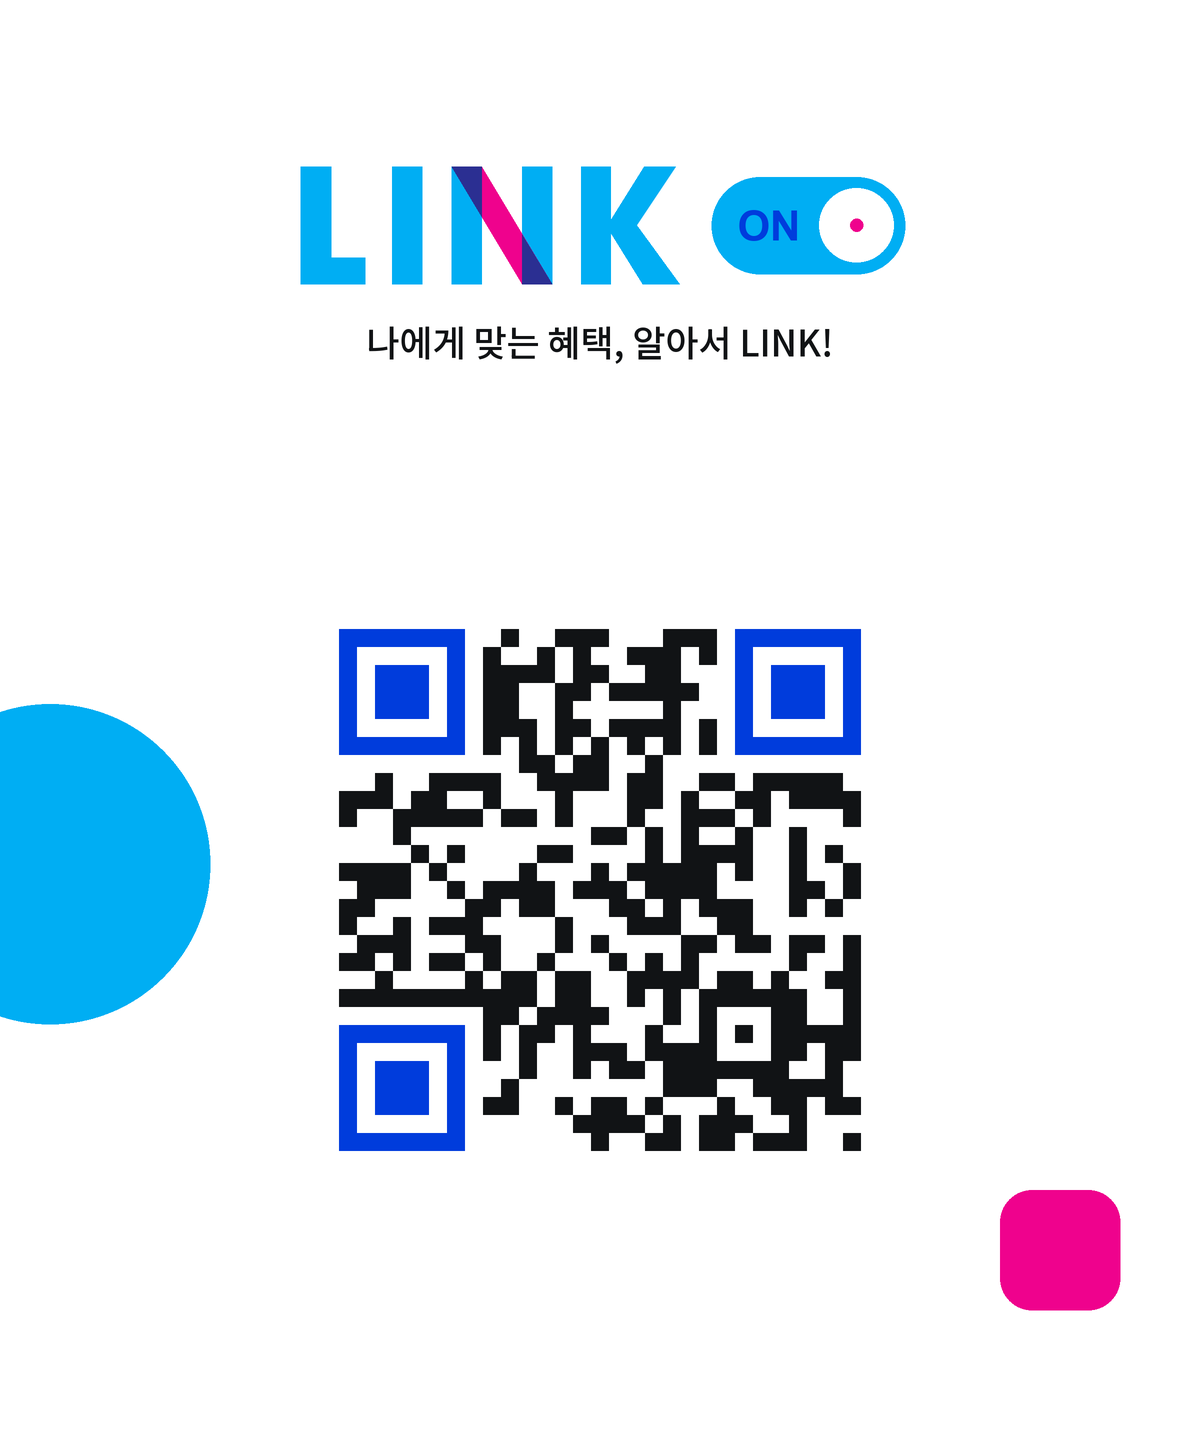
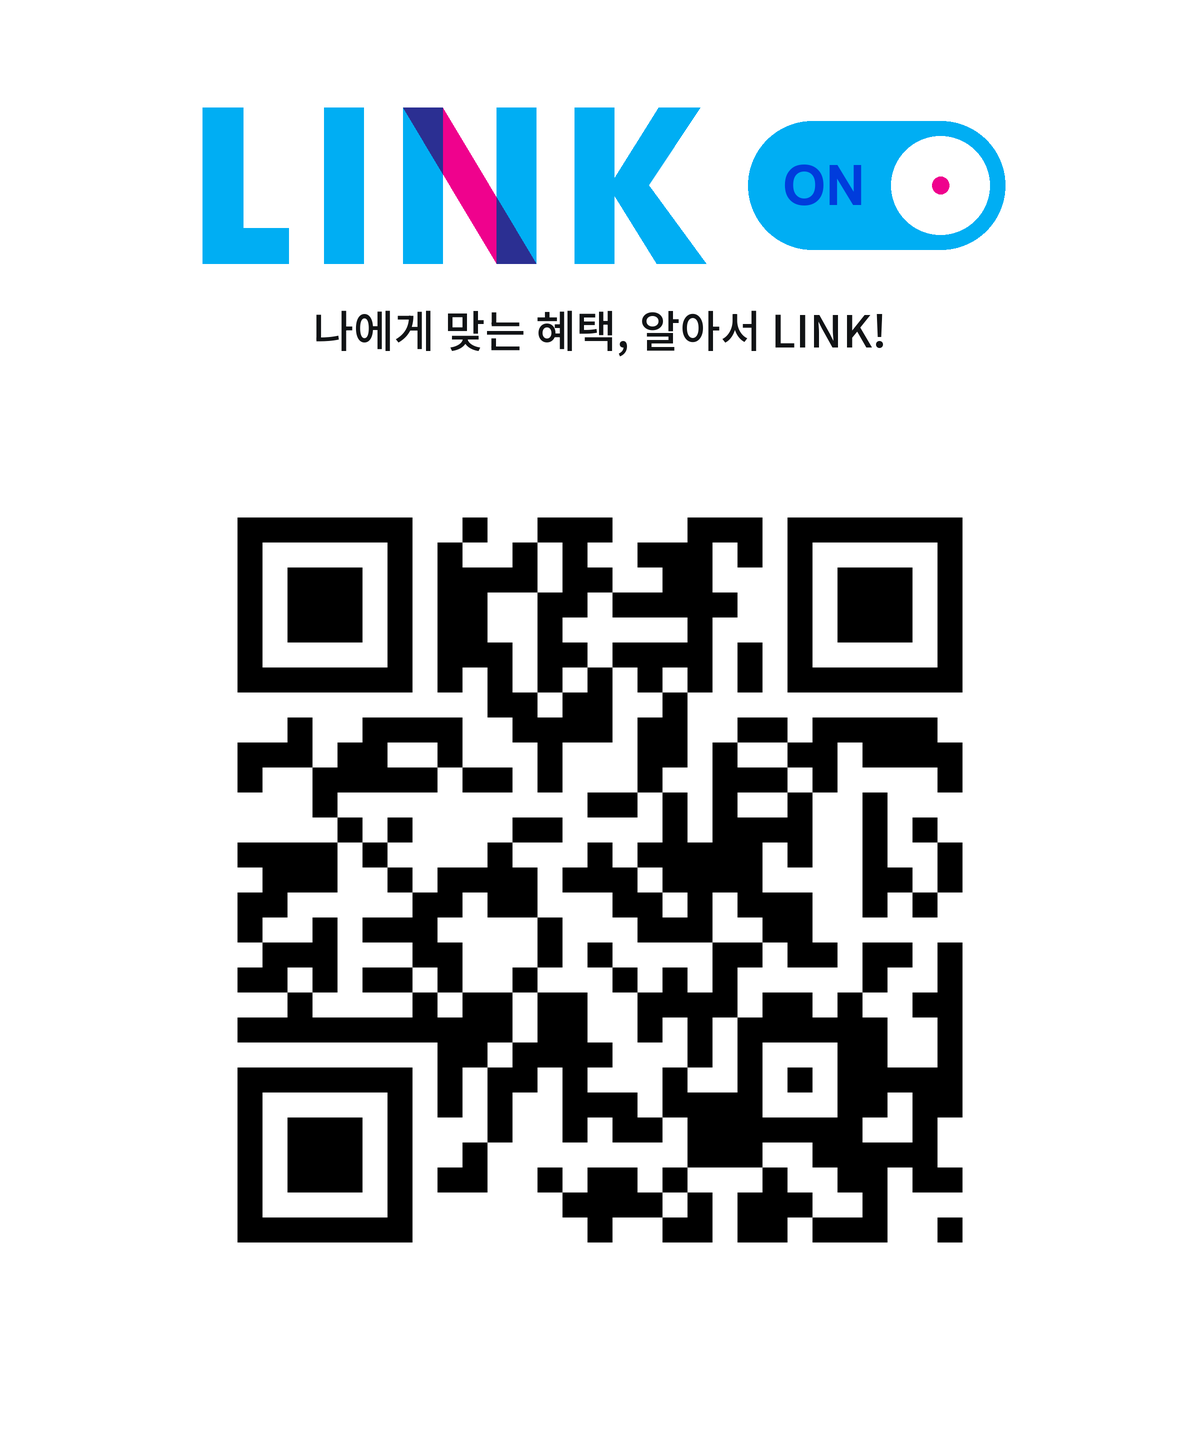
Simplify and enlarge QR; move brand introduction above phone

Changed region(s): [[0.0, 0.3438, 0.8017, 0.875], [0.1542, 0.0625, 0.8633, 0.25], [0.8325, 0.8125, 0.9558, 0.9375]]

diff --git a/src/styles.css b/src/styles.css
@@ -1,7 +1,7 @@
 @font-face{font-family:'Noto Sans KR';src:url('/fonts/NotoSansKR-VF.ttf') format('truetype');font-style:normal;font-weight:100 900;font-display:swap}
 :root{font-family:'Noto Sans KR',sans-serif;color:#111315;background:#f4f6fa;font-synthesis:none;text-rendering:optimizeLegibility;-webkit-font-smoothing:antialiased;--blue:#1677ff;--tint:#f0f6ff;--ink:#111315;--muted:#5f6672;--subtle:#f6f7f8;--line:#edeef1;--cyan:#00aef3;--brand-blue:#003cdc;--shadow:0 2px 6px #0000000a,0 8px 24px #0000000f;--note-shadow:0 2px 6px #00000005,0 8px 24px #0000000a}
 *{box-sizing:border-box}body{margin:0}button,input{font:inherit}button{border:0;cursor:pointer;background:none;color:inherit;padding:0;-webkit-tap-highlight-color:transparent}button:disabled{cursor:not-allowed}button:focus-visible,input:focus-visible{outline:3px solid #003cdc;outline-offset:4px}button:active:not(:disabled){filter:brightness(.96)}p,h1,h2,h3,dl,dd{margin:0}img{display:block}h1{font-size:18px;font-weight:700;line-height:27px}h2{font-size:26px;font-weight:700;line-height:36px;letter-spacing:-.5px;word-break:keep-all}h3{font-size:20px;font-weight:700;line-height:30px;letter-spacing:-.35px}p{font-size:16px;line-height:26px;word-break:keep-all;overflow-wrap:break-word}.muted{color:var(--muted)}.small{font-size:14px;line-height:22px}.left{text-align:left}.preview{min-height:100svh;display:flex;flex-direction:column;align-items:center;justify-content:center;gap:14px;padding:20px 0}.preview-stage{width:440px;max-width:100%}.phone{width:100%;height:956px;border:1px solid #d7dfec;border-radius:52px;background:#fff;position:relative;overflow:hidden;box-shadow:0 20px 70px #213b5c0b}.screen-body{height:100%;display:flex;flex-direction:column}.status-bar{height:61px;flex-shrink:0;position:relative;font-family:Arial,sans-serif;color:#000}.status-time{position:absolute;left:16%;top:21px;font-size:20px;font-weight:600;line-height:22px}.island{position:absolute;top:13px;left:50%;transform:translateX(-50%);width:95px;height:36.667px;border-radius:24px;background:#000}.status-levels{position:absolute;right:10.3%;top:23.333px;display:flex;align-items:center;gap:8.667px;height:16.333px}.status-levels img{max-width:none;height:auto}.cellular{width:20.333px;height:16.333px;display:flex;gap:2.333px;align-items:flex-end;padding-top:1.333px}.cellular i{display:block;width:3.333px;background:#000;border-radius:1px}.cellular i:nth-child(1){height:7px}.cellular i:nth-child(2){height:9.667px}.cellular i:nth-child(3){height:12.333px}.cellular i:nth-child(4){height:15px}.navigation{display:grid;grid-template-columns:44px minmax(0,1fr) 44px;gap:12px;align-items:center;margin:6px 23px 26px;min-height:44px;flex-shrink:0;text-align:center}.nav-icon{width:44px;height:44px;display:grid;place-items:center}.nav-placeholder{width:44px}.asset-icon{display:inline-flex;align-items:center;justify-content:center;flex-shrink:0}.asset-icon img{max-width:100%;max-height:100%;object-fit:contain}.content{display:flex;flex-direction:column;gap:18px;flex:1;min-height:0;padding:0 23px 20px;overflow-y:auto;overflow-x:hidden;scrollbar-width:thin;scrollbar-color:#a8afb9 transparent}.content::-webkit-scrollbar{width:6px}.content::-webkit-scrollbar-track{background:transparent}.content::-webkit-scrollbar-thumb{background:#a8afb9;border-radius:6px}.content::-webkit-scrollbar-thumb:hover{background:#858e9b}.content>*{flex-shrink:0}.content.start{gap:16px}.content.main-on{gap:12px}.content.detail{gap:16px}.footer{padding:6px 23px 17px;display:flex;flex-direction:column;gap:12px;background:#fff;flex-shrink:0}.home-indicator{height:33px;flex-shrink:0;position:relative}.home-indicator>span{position:absolute;width:144px;height:5px;border-radius:3px;background:#000;left:50%;bottom:7px;transform:translateX(-50%)}.button{height:56px;min-height:56px;width:100%;border-radius:28px;display:flex;align-items:center;justify-content:center;font-size:16px;line-height:24px;font-weight:700;text-align:center;padding:0 16px}.button.primary{background:var(--blue);color:#fff;font-size:19px}.button.secondary{background:var(--tint);color:var(--brand-blue)}.button:disabled{background:var(--line);color:var(--muted)}.link-header{display:flex;align-items:center;justify-content:space-between;padding:2px 0 6px;min-height:46px}.help-button{height:38px;width:100px;border-radius:22px;background:var(--tint);color:var(--brand-blue);font-size:14px;font-weight:700}.summary{display:grid;grid-template-columns:1fr 1fr;padding:8px;background:var(--subtle);border-radius:24px}.summary>div{background:#fff;display:flex;flex-direction:column;align-items:center;gap:4px;padding:12px 8px;border-radius:18px}.summary span{font-size:14px;line-height:22px;color:var(--muted)}.summary strong{font-size:24px;line-height:32px}.card{padding:20px;border-radius:24px;background:#fff;box-shadow:var(--shadow)}.intro{padding:20px 24px;display:flex;flex-direction:column;gap:12px}.intro h2{font-size:24px;line-height:34px}.intro-description{font-size:15px;line-height:24px}.link-on-logo{position:relative;flex-shrink:0}.link-on-logo>*{position:absolute;display:block}.logo-track{background:var(--cyan);border-radius:100px}.logo-on{color:var(--brand-blue);font-weight:700;text-align:left;white-space:nowrap}.note{padding:16px;border-radius:16px;box-shadow:none;background:var(--subtle);font-size:14px;line-height:22px;color:var(--muted);word-break:keep-all;overflow-wrap:break-word}.active-banner{display:flex;align-items:center;justify-content:space-between;gap:12px;padding:12px 16px;border-radius:18px;background:#eef4ff}.active-banner>div{min-width:0;display:flex;flex-direction:column;gap:4px}.toggle-hit{width:54px;min-width:54px;height:44px;display:grid;place-items:center}.toggle-off{width:54px;height:32px;background:#9196a2;border-radius:16px;padding:3px;display:block}.toggle-off>span{width:26px;height:26px;border-radius:50%;background:#fff;display:block}.section-heading{display:flex;align-items:center;justify-content:space-between;gap:8px;height:30px}.text-action{color:var(--brand-blue);font-size:16px;font-weight:700;line-height:26px;padding:0 10px;min-height:26px}.text-action.left{padding:0}.benefit{width:100%;min-height:102px;display:grid;grid-template-columns:44px minmax(0,1fr) 96px;column-gap:12px;text-align:left;align-items:center;padding:10px 0}.merchant{width:44px;height:44px;object-fit:contain;border-radius:11px}.merchant.starbucks{border-radius:50%}.merchant.large{width:64px;height:64px;border-radius:16px}.merchant.large.starbucks{border-radius:50%}.benefit-info{display:grid;grid-template-columns:1fr;gap:4px;min-width:0}.merchant-name{font-size:15px;color:var(--muted);line-height:22px}.benefit-info strong{font-size:21px;line-height:30px;font-weight:700;white-space:nowrap;letter-spacing:-.4px}.condition{font-size:14px;line-height:22px;color:var(--muted);white-space:normal}.benefit-action{width:96px;height:40px;border-radius:22px;display:flex;align-items:center;color:var(--brand-blue);font-size:14px;line-height:22px;font-weight:700}.benefit-action.link{border:1px solid var(--blue);padding-left:19px;padding-right:7px;background:#fff}.benefit-action.link>span:last-child{flex:1;text-align:center}.benefit-action.complete{justify-content:center;gap:8px;color:var(--muted);background:#fff}.benefit-action.detail{justify-content:flex-end;gap:2px;padding-right:6px}.benefit-action.exclude{justify-content:center;background:var(--subtle)}.detail-merchant{display:flex;align-items:center;gap:16px}.detail-merchant>div{display:flex;flex-direction:column;gap:4px;min-width:0}.detail-merchant p{line-height:24px}.detail-merchant h2{font-size:28px;line-height:38px;letter-spacing:-.5px}.pill{align-self:flex-start;display:inline-flex;align-items:center;justify-content:center;min-width:116px;padding:5px 10px;border-radius:20px;background:var(--tint);color:var(--brand-blue);font-size:14px;line-height:22px}.reason{display:flex;flex-direction:column;gap:10px}.reason>strong{display:flex;align-items:center;gap:10px;font-size:16px;line-height:26px}.details{display:flex;flex-direction:column;gap:16px;padding:12px 0;font-size:16px;line-height:24px}.details>div{display:grid;grid-template-columns:106px minmax(0,1fr);gap:16px}.details dt{color:var(--muted)}.details dd{font-weight:500;word-break:keep-all;overflow-wrap:break-word;letter-spacing:-.25px}.status-circle{width:72px;height:72px;display:grid;place-items:center;background:var(--tint);border-radius:50%;align-self:flex-start}.service-info{display:flex;flex-direction:column;gap:20px}.service-row{display:flex;align-items:center;gap:12px}.service-row>div{min-width:0;display:flex;flex-direction:column;gap:4px}.service-row strong{font-size:16px;line-height:26px;letter-spacing:-.3px;word-break:keep-all}.consent{display:flex;align-items:center;gap:12px;padding:8px 0;cursor:pointer;font-size:16px;line-height:26px;font-weight:700}.consent input{appearance:none;margin:0;width:32px;height:32px;flex-shrink:0;border:1px solid #aab4c4;border-radius:8px;display:grid;place-content:center;cursor:pointer}.consent input:checked{background:var(--blue);border-color:var(--brand-blue)}.consent input:checked:after{content:'';display:block;width:12px;height:7px;border-left:2px solid white;border-bottom:2px solid white;transform:translateY(-1px) rotate(-45deg)}.industry-grid{display:grid;grid-template-columns:1fr 1fr;gap:18px 12px}.industry{height:56px;border-radius:28px;background:var(--subtle);border:1px solid var(--muted);font-size:16px;line-height:24px}.industry.selected{background:var(--ink);color:white;border-color:var(--ink);font-weight:700}.manage-toggle{display:flex;align-items:center;justify-content:space-between;padding:10px 0}.interest-summary{display:flex;align-items:center;justify-content:space-between;gap:20px;padding:18px 0}.interest-summary>div{min-width:0;flex:1}.interest-summary strong{font-size:18px;line-height:28px;word-break:keep-all;display:block;margin-top:4px}.interest-summary button{font-weight:400;flex-shrink:0;padding-right:10px;font-size:14px;line-height:24px}.quick-actions{display:flex;gap:12px}.quick-actions .button{height:44px;min-height:44px}.result-tabs{display:flex;gap:8px}.result-tabs button{flex:1;min-width:0;height:44px;border-radius:22px;background:var(--subtle);font-size:15px;color:var(--muted)}.result-tabs button.selected{background:var(--ink);font-weight:700;color:#fff}.result-card{padding:24px;display:flex;flex-direction:column;gap:12px}.result-icons{display:flex;align-items:center;gap:12px}.modal-layer{position:absolute;inset:0;z-index:10;display:flex;flex-direction:column;justify-content:flex-end}.scrim{position:absolute;inset:0;background:rgba(37,42,52,.36)}.sheet{position:relative;background:#fff;border-radius:28px 28px 0 0;display:flex;flex-direction:column;gap:20px;padding:32px 23px 49px;min-height:342px}.sheet-handle{position:absolute;top:10px;left:50%;transform:translateX(-50%);width:40px;height:5px;background:#e5e9f0;border-radius:3px}.modal-layer>.home-indicator{background:#fff;position:relative}.preview-tools{display:flex;align-items:center;gap:20px;color:var(--muted);font-size:12px;line-height:20px}.preview-tools button{text-decoration:underline;text-underline-offset:3px;font-size:12px}.preview-tools button:focus-visible{outline-offset:2px}
-@media(max-width:560px){:root{background:#fff;scrollbar-width:none}body::-webkit-scrollbar{display:none}.preview{padding:0;gap:0;justify-content:flex-start}.preview-stage{width:440px}.phone{height:min(956px,100dvh);min-height:560px;box-shadow:none}.preview-tools{padding:14px 8px;flex-wrap:wrap;justify-content:center}.content{overscroll-behavior:contain}}
+@media(max-width:560px){:root{background:#fff;scrollbar-width:none}body::-webkit-scrollbar{display:none}.preview{padding:0;gap:0;justify-content:flex-start}.preview-stage{width:440px}.phone{height:min(956px,calc(100dvh - 134px));min-height:560px;box-shadow:none}.preview-tools{padding:14px 8px;flex-wrap:wrap;justify-content:center}.content{overscroll-behavior:contain}}
 @media(max-width:400px){h2{font-size:24px;line-height:34px}.navigation{margin-left:19px;margin-right:19px}.content{padding-left:19px;padding-right:19px}.footer{padding-left:19px;padding-right:19px}.benefit{grid-template-columns:40px minmax(0,1fr) 82px;column-gap:9px;min-height:110px}.merchant{width:40px;height:40px}.benefit-action{width:82px}.benefit-action.link{padding-left:14px;padding-right:4px}.benefit-info strong{font-size:20px}.condition{white-space:normal;grid-column:auto;font-size:14px;line-height:22px}.details>div{grid-template-columns:88px minmax(0,1fr);gap:12px}.active-banner{padding-left:12px;padding-right:12px}.service-info{padding:18px}.service-row{gap:10px}.service-row strong{font-size:15px}.intro{padding:20px}.sheet{padding-left:19px;padding-right:19px}.status-levels{right:8%}.status-time{left:13%}}
 @media(prefers-reduced-motion:no-preference){.button,.benefit-action,.industry{transition:background-color .15s,color .15s}.sheet{animation:slide-up .18s ease-out}@keyframes slide-up{from{transform:translateY(20px);opacity:.5}to{transform:translateY(0);opacity:1}}}
 .active-banner{justify-content:flex-start}.active-banner>div{width:278px;flex:0 1 278px}
@@ -66,8 +66,8 @@
 .content.main-on .link-header{padding-bottom:0}.content.main-on .link-header>img{width:96px;height:auto}
 .content.experience{gap:16px}.content.experience>h2{font-size:25px;line-height:35px}.content.experience>p{font-size:15px;line-height:24px}
 
-/* A quiet brand signature separates the service from optional presentation tools. */
-.brand-signature{display:flex;flex-direction:column;align-items:center;gap:16px;margin:28px 20px 2px;text-align:center}
+/* Brand introduction sits above the phone preview. */
+.brand-signature{display:flex;flex-direction:column;align-items:center;gap:16px;margin:8px 20px 12px;text-align:center}
 .brand-signature p{font-size:17px;line-height:26px;font-weight:500;letter-spacing:-.3px;color:var(--ink)}
 .preview-tools{gap:8px 24px;padding:0 20px}
 .preview-tools button{min-height:44px;font-size:13px;color:var(--muted);text-decoration:none}
@@ -101,4 +101,4 @@
 .settings-panel .settings-check{flex-direction:row;align-items:center;gap:10px;min-height:44px;font-weight:400}
 .settings-check input{width:20px;height:20px;min-height:20px;flex-shrink:0;accent-color:var(--brand-blue)}
 .settings-feedback{padding:12px 14px;margin-top:20px;background:var(--tint);border-radius:12px;font-size:14px;line-height:23px;color:var(--brand-blue)}
-@media(max-width:560px){.brand-signature{margin-top:40px;margin-bottom:12px}.brand-signature p{font-size:16px}.demo-tools[open]>summary{padding:18px}.settings-content{padding:0 18px 20px}.settings-fields{grid-template-columns:1fr}.settings-tabs button{font-size:13px}.demo-tools{margin-top:0;margin-bottom:28px}.preview-tools{padding-top:0}}
+@media(max-width:560px){.brand-signature{margin-top:24px;margin-bottom:24px}.brand-signature p{font-size:16px}.demo-tools[open]>summary{padding:18px}.settings-content{padding:0 18px 20px}.settings-fields{grid-template-columns:1fr}.settings-tabs button{font-size:13px}.demo-tools{margin-top:0;margin-bottom:28px}.preview-tools{padding-top:0}}

diff --git a/src/main.tsx b/src/main.tsx
@@ -224,14 +224,14 @@ function App() {
     footer = <Button onClick={home}>LINK 메인으로</Button>;
   }
   const modalName = modalOffer ? merchants[modalOffer.merchant].name : '';
-  return <div className="preview"><div className="preview-stage" style={{ zoom: originalSize ? 1 : previewScale } as CSSProperties}><div className="phone" data-screen={path}>
+  return <div className="preview"><section className="brand-signature" aria-label="LINK ON 소개"><LinkLogo size={190} /><p>나에게 맞는 혜택, 알아서 LINK!</p></section><div className="preview-stage" style={{ zoom: originalSize ? 1 : previewScale } as CSSProperties}><div className="phone" data-screen={path}>
     <div className="screen-body" inert={!!modal}><StatusBarIPhone /><nav className="navigation" aria-label="화면 이동">{!isMain ? <button className="nav-icon" onClick={back} aria-label="뒤로"><Icon name="back.svg" /></button> : <span className="nav-placeholder" />}<h1 tabIndex={-1}>{title}</h1>{!isMain ? <button className="nav-icon" onClick={home} aria-label="LINK 메인"><Icon name="close.svg" size={20} /></button> : <span className="nav-placeholder" />}</nav><main className={`content ${contentClass}`} ref={scrollRef}>{state.notice && <div className="inline-notice" role="status">{state.notice}</div>}{content}</main>{footer && <footer className="footer">{footer}</footer>}<HomeIndicator /></div>
     {modal && <ConfirmSheet returnFocus={modalOrigin.current} title={modal === 'unlink' ? '직접 LINK를 해제할까요?' : modal === 'off' ? 'LINK ON을 끌까요?' : '이 혜택을 제외할까요?'} confirm={modal === 'unlink' ? 'LINK 해제' : modal === 'off' ? '자동 연결 끄기' : `${modalName} 혜택 제외`} cancel={modal === 'unlink' ? '연결 유지하기' : modal === 'off' ? '자동 연결 유지하기' : '혜택 유지하기'} onClose={historyBack} onConfirm={() => {
       if (modal === 'unlink' && modalOffer) { dispatch({ type: 'UNLINK_MANUAL', id: modalOffer.id }); historyBack(); }
       else if (modal === 'off') { dispatch({ type: 'DISABLE' }); home(); }
       else if (modalOffer) { dispatch({ type: 'EXCLUDE', id: modalOffer.id }); go(`/excluded/${modalOffer.id}`, true); }
     }}>{modal === 'unlink' ? <>{modalName} 혜택의 연결이 해제돼요.<br />다른 혜택과 LINK ON 설정은 유지돼요.</> : modal === 'off' ? <>새 혜택의 자동 연결이 중단돼요.<br />이미 연결된 혜택은 만료일까지 유지됩니다.</> : <>{modalName} 혜택의 연결이 취소돼요.<br />이번 행사 혜택은 다시 자동 연결하지 않아요.</>}</ConfirmSheet>}
-  </div></div><section className="brand-signature" aria-label="LINK ON 소개"><LinkLogo size={190} /><p>나에게 맞는 혜택, 알아서 LINK!</p></section><div className="preview-tools" inert={!!modal}><button className="preview-size" aria-pressed={originalSize} onClick={() => setOriginalSize(value => !value)}>{originalSize ? '화면에 맞추기' : '원본 크기로 보기'}</button><button onClick={() => { dispatch({ type: 'RESET' }); setDemoReset(value => value + 1); setConsent(false); setDraft(initialState.interests); setIndustryFilter('전체'); home(); requestAnimationFrame(() => { scrollRef.current?.scrollTo(0, 0); window.scrollTo(0, 0); }); }}>다시 체험하기</button></div><DemoTools key={demoReset} blocked={!!modal} state={state} dispatch={dispatch} navigate={route => go(route)} /></div>;
+  </div></div><div className="preview-tools" inert={!!modal}><button className="preview-size" aria-pressed={originalSize} onClick={() => setOriginalSize(value => !value)}>{originalSize ? '화면에 맞추기' : '원본 크기로 보기'}</button><button onClick={() => { dispatch({ type: 'RESET' }); setDemoReset(value => value + 1); setConsent(false); setDraft(initialState.interests); setIndustryFilter('전체'); home(); requestAnimationFrame(() => { scrollRef.current?.scrollTo(0, 0); window.scrollTo(0, 0); }); }}>다시 체험하기</button></div><DemoTools key={demoReset} blocked={!!modal} state={state} dispatch={dispatch} navigate={route => go(route)} /></div>;
 }
 
 initializeNavigation();

diff --git a/scripts/create-qr.py b/scripts/create-qr.py
@@ -7,11 +7,11 @@ from PIL import Image, ImageDraw, ImageFont
 
 ROOT=Path(__file__).resolve().parents[1]
 S=2; W,H=1200,1440
-# Flat white canvas; only the existing brand accents appear in decoration.
+# Solid white background without decorative shapes.
 img=Image.new('RGB',(W*S,H*S),'white')
 d=ImageDraw.Draw(img)
 # Original LINK paths and ON toggle geometry, with no reshaping.
-ox,oy,scale=295,155,610/128
+ox,oy,scale=195,92,810/128
 root=ET.parse(ROOT/'public/assets/logo-128-link.svg').getroot()
 for path in root.findall('.//{http://www.w3.org/2000/svg}path'):
     tokens=re.findall(r'[MHVLZ]|-?\d+(?:\.\d+)?',path.attrib['d']); points=[]; i=0; x=y=0; command=''
@@ -31,22 +31,16 @@ on_font=Path('C:/Windows/Fonts/arialbd.ttf')
 if not on_font.exists(): on_font=ROOT/'public/fonts/NotoSansKR-VF.ttf'
 font=ImageFont.truetype(str(on_font),round(8.8*scale*S))
 d.text(((ox+99.42*scale)*S,(oy+14.77*scale)*S),'ON',font=font,fill='#003cdc',anchor='mm')
-font=ImageFont.truetype(str(ROOT/'public/fonts/NotoSansKR-VF.ttf'),36*S)
+font=ImageFont.truetype(str(ROOT/'public/fonts/NotoSansKR-VF.ttf'),44*S)
 font.set_variation_by_axes([500])
-d.text((600*S,342*S),'나에게 맞는 혜택, 알아서 LINK!',font=font,fill='#111315',anchor='mm')
-# Two solid shapes frame the white scan area without outlining it.
-# Both sit outside the full four-module quiet zone.
-d.ellipse((-110*S,704*S,210*S,1024*S),fill='#00aef3')
-d.rounded_rectangle((1000*S,1190*S,1120*S,1310*S),radius=32*S,fill='#ef028d')
+d.text((600*S,330*S),'나에게 맞는 혜택, 알아서 LINK!',font=font,fill='#111315',anchor='mm')
 qr=qrcode.QRCode(error_correction=qrcode.constants.ERROR_CORRECT_H,border=4)
 qr.add_data('https://link-on.kro.kr/');qr.make(fit=True)
-m=qr.get_matrix();n=len(m);unit=18;startx=(W-n*unit)/2;starty=890-n*unit/2
+m=qr.get_matrix();n=len(m);unit=25;startx=(W-n*unit)/2;starty=880-n*unit/2
 for row,line in enumerate(m):
  for col,on in enumerate(line):
   if not on:continue
-  a,b=col-4,row-4;side=n-8
-  finder=(a<7 and b<7) or (a>=side-7 and b<7) or (a<7 and b>=side-7)
-  color='#003cdc' if finder else '#111315'
+  color='#000000'
   x,y=(startx+col*unit)*S,(starty+row*unit)*S
   d.rectangle((x,y,x+unit*S-1,y+unit*S-1),fill=color)
 img=img.convert('RGB').resize((W,H),Image.Resampling.LANCZOS)

diff --git a/CHANGELOG.md b/CHANGELOG.md
@@ -1,5 +1,11 @@
 # 변경 기록
 
+## QR 확대·웹 소개 위치 조정 — 2026-10-30
+
+- QR 배경 장식을 모두 없애고 흰색 단색으로 정리했습니다. QR 패턴은 검정색으로 통일했습니다.
+- QR과 로고·소개 문구를 확대하고 사이 간격을 줄였습니다.
+- 웹의 로고와 한 줄 소개를 폰 화면 위로 옮겼습니다. PC 폰 비율은 유지하고, 모바일은 소개 영역 높이를 반영해 시작 버튼을 첫 화면에 표시합니다. 서비스 동작은 유지합니다.
+
 ## 서비스 소개·QR 정리 — 2026-10-30
 
 - README에 기획 배경, 일부 자동 연결의 이유, 고객·카드사·가맹점의 기대 가치와 검증 계획을 정리했습니다.
